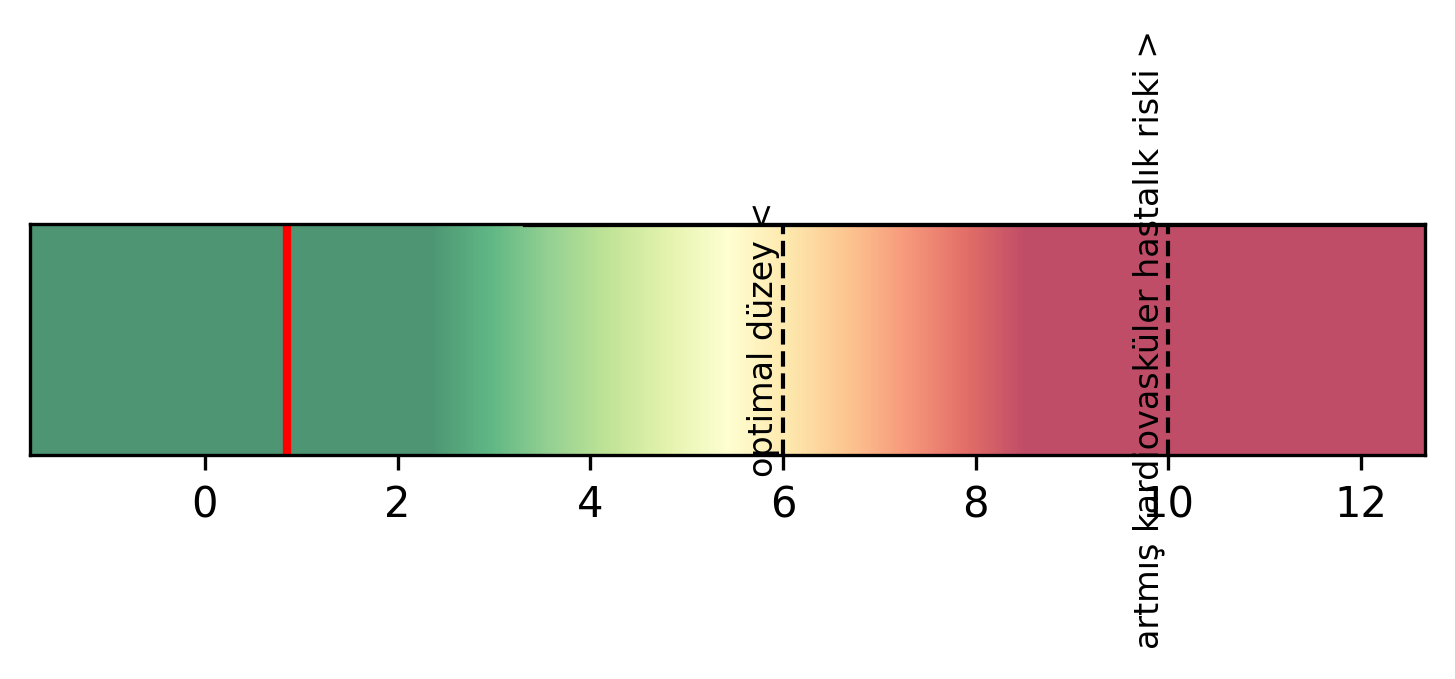
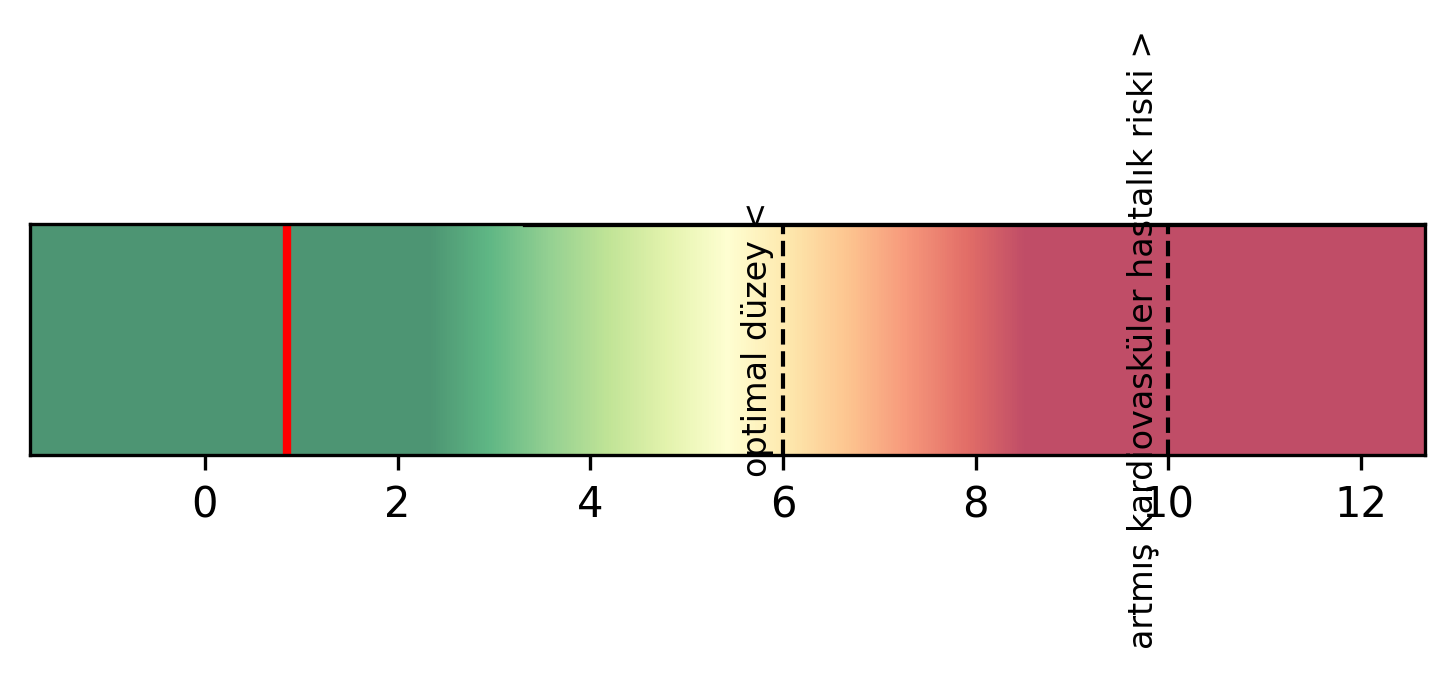
Fixed Labels

diff --git a/one_limit.py b/one_limit.py
@@ -27,8 +27,8 @@ def o_chart(patient, ref, keylwst, keybgst, constant):
 
     plt.axvline(x=ref, color='black', linestyle='--', linewidth=1)
 
-    plt.text(ref - 3, 0.5, keylwst, rotation=90, ha='center', va='center', fontsize=8)
-    plt.text(ref + 3, 0.5, keybgst, rotation=-90, ha='center', va='center', fontsize=8)
+    plt.text(ref - constant/10, 0.5, keylwst, rotation=90, ha='center', va='center', fontsize=8)
+    plt.text(ref + constant/10, 0.5, keybgst, rotation=-90, ha='center', va='center', fontsize=8)
 
     # Constant value
     custom_value = max(x_min, min(patient, x_max))

diff --git a/mult_limits.py b/mult_limits.py
@@ -30,7 +30,7 @@ def m_chart(patient, lwst, bgst, keylwst, keybgst, constant, extra_limits):
 
     for limit, label in zip(limits, labels):
         plt.axvline(x=limit, color='black', linestyle='--', linewidth=1)
-        plt.text(limit - 0.2, 0.5, label, rotation=90, ha='center', va='center', fontsize=8)
+        plt.text(limit - constant/10, 0.5, label, rotation=90, ha='center', va='center', fontsize=8)
 
     # Constant value
     custom_value = max(x_min, min(patient, x_max))

diff --git a/two_limits.py b/two_limits.py
@@ -31,7 +31,7 @@ def t_chart(patient, lwst, bgst, keylwst, keybgst, constant):
 
     for limit, label in zip(limits, tick_labels):
         plt.axvline(x=limit, color='black', linestyle='--', linewidth=1)
-        plt.text(limit - 0.2, 0.5, label, rotation=90, ha='center', va='center', fontsize=8)
+        plt.text(limit - constant/10, 0.5, label, rotation=90, ha='center', va='center', fontsize=8)
 
 
     # Constant value

diff --git a/main.py b/main.py
@@ -4,8 +4,6 @@ import re
 import test_groups as TG
 import sort_fp as SFP
 
-
-
 # Ignore FutureWarning for using float on a single-element Series
 warnings.simplefilter(action='ignore', category=FutureWarning)
 
